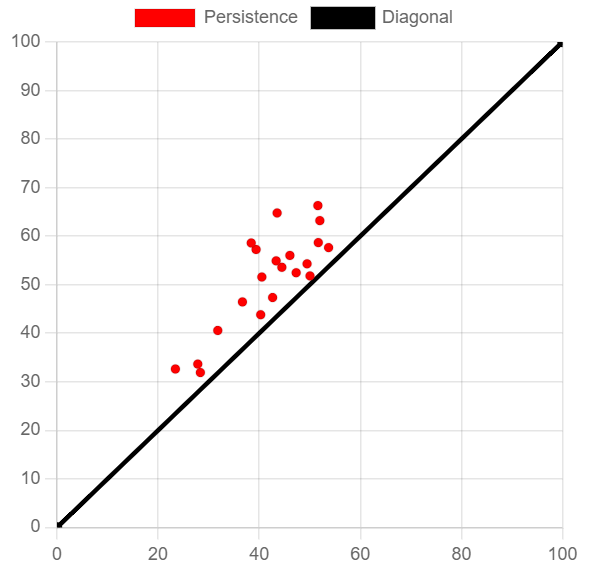
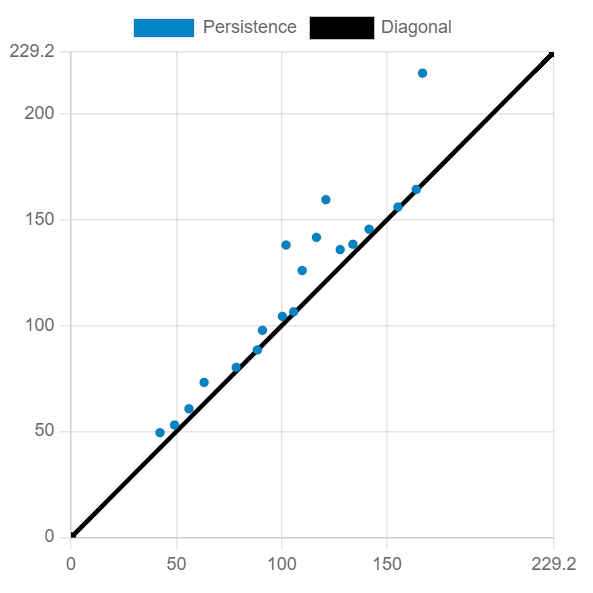
Some fixes to the explanation

diff --git a/app/explanation/persistent-homology/images.tsx b/app/explanation/persistent-homology/images.tsx
@@ -1,3 +1,8 @@
+import Image from 'next/image';
+import persistenceDiagramExample from './PersistenceDiagramExample.png';
+import persistenceDiagramExampleCycle1 from './PersistenceDiagramExampleCycle1.png';
+import persistenceDiagramExampleCycle2 from './PersistenceDiagramExampleCycle2.png';
+
 function examplePoints() {
     const radius1 = 0.3;
     const radius2 = 0.5;
@@ -80,7 +85,7 @@ export function ExampleVietorisRipsSVG({ d }: { d: number }) {
 }
 
 export function ExampleDifferentVietorisRips() {
-    const values = [0.0, 0.1, 0.2, 0.3, 0.4, 0.5, 0.6, 0.7, 0.8, 0.9, 1.0, 2.0];
+    const values = [0.0, 0.1, 0.2, 0.3, 0.4, 0.5, 0.6, 0.7, 0.8, 0.9];
     return (
         <div className="flex flex-wrap justify-around">
             {values.map(value => (
@@ -405,7 +410,7 @@ export function ExampleFilter() {
             {complexes.map(({numberOfVertices, numberOfEdges, numberOfFaces, text}, i) => (
                 <div key={i} className="flex items-center my-5 gap-5">
                     <div>
-                        <svg viewBox="0 0 300 300" width="150px" height="150px" className="border">
+                        <svg viewBox="0 0 300 300" width="150px" height="150px" className="border border-slate-900">
                             <SimplicalComplex vertices={vertices.slice(0, numberOfVertices)}
                                                 edges={edges.slice(0, numberOfEdges)}
                                                 triangles={triangles.slice(0, numberOfFaces)}/>
@@ -464,31 +469,31 @@ export function ExamplePersistentAlgorithm() {
             numberOfVertices: 0,
             numberOfEdges: 0,
             numberOfFaces: 0,
-            text: <>We start with no simplices. The lists are 0basis = [ ], 1basis = [ ].</>,
+            text: <>We start with no simplices. The lists are basis<sub>0</sub> = [ ], basis<sub>1</sub> = [ ].</>,
         },
         {
             numberOfVertices: 1,
             numberOfEdges: 0,
             numberOfFaces: 0,
-            text: <>We add v<sub>1</sub>. This is a positive simplex as vertices are cycles themselves. Thus we set 0basis = [ v<sub>1</sub> ].</>,
+            text: <>We add v<sub>1</sub>. This is a positive simplex as vertices are cycles themselves. Thus we set basis<sub>0</sub> = [ v<sub>1</sub> ].</>,
         },
         {
             numberOfVertices: 2,
             numberOfEdges: 0,
             numberOfFaces: 0,
-            text: <>We add v<sub>2</sub>. 0basis = [ v<sub>1</sub>, v<sub>2</sub> ].</>,
+            text: <>We add v<sub>2</sub>. basis<sub>0</sub> = [ v<sub>1</sub>, v<sub>2</sub> ].</>,
         },
         {
             numberOfVertices: 3,
             numberOfEdges: 0,
             numberOfFaces: 0,
-            text: <>We add v<sub>3</sub>. 0basis = [ v<sub>1</sub>, v<sub>2</sub>, v<sub>3</sub> ].</>,
+            text: <>We add v<sub>3</sub>. basis<sub>0</sub> = [ v<sub>1</sub>, v<sub>2</sub>, v<sub>3</sub> ].</>,
         },
         {
             numberOfVertices: 4,
             numberOfEdges: 0,
             numberOfFaces: 0,
-            text: <>We add v<sub>4</sub>. 0basis = [ v<sub>1</sub>, v<sub>2</sub>, v<sub>3</sub>, v<sub>4</sub> ].</>,
+            text: <>We add v<sub>4</sub>. basis<sub>0</sub> = [ v<sub>1</sub>, v<sub>2</sub>, v<sub>3</sub>, v<sub>4</sub> ].</>,
         },
         {
             numberOfVertices: 4,
@@ -500,13 +505,13 @@ export function ExamplePersistentAlgorithm() {
                     The boundary of e<sub>1</sub> = v<sub>1</sub> + v<sub>2</sub>.
                 </div>
                 <div>
-                    Since (v<sub>1</sub>) + (v<sub>2</sub>) becomes a boundary,
+                    Since v<sub>1</sub> + v<sub>2</sub> becomes a boundary,
                     and v<sub>1</sub> and v<sub>2</sub> are in the list,
                     we take their corresponding simplices v<sub>1</sub>, v<sub>2</sub> and
                     choose the one appearing last in the sequence, v<sub>2</sub>.
                 </div>
                 <div>
-                    Thus we assign v<sub>2</sub> to e<sub>1</sub>, and set 0basis = [ v<sub>1</sub>, v<sub>3</sub>, v<sub>4</sub> ].
+                    Thus we assign v<sub>2</sub> to e<sub>1</sub>, and set basis<sub>0</sub> = [ v<sub>1</sub>, v<sub>3</sub>, v<sub>4</sub> ].
                 </div>
             </>,
         },
@@ -520,13 +525,13 @@ export function ExamplePersistentAlgorithm() {
                     The boundary of e<sub>2</sub> = v<sub>2</sub> + v<sub>3</sub>.
                 </div>
                 <div>
-                    Since (v<sub>1</sub>) + (v<sub>3</sub>) becomes a boundary,
+                    Since v<sub>1</sub> + v<sub>3</sub> becomes a boundary,
                     and v<sub>1</sub> and v<sub>3</sub> are in the list,
                     we take their corresponding simplices v<sub>1</sub>, v<sub>3</sub> and
                     choose the one appearing last in the sequence, v<sub>3</sub>.
                 </div>
                 <div>
-                    Thus we assign v<sub>3</sub> to e<sub>2</sub>, and set 0basis = [ v<sub>1</sub>, v<sub>4</sub> ].
+                    Thus we assign v<sub>3</sub> to e<sub>2</sub>, and set basis<sub>0</sub> = [ v<sub>1</sub>, v<sub>4</sub> ].
                 </div>
             </>,
         },
@@ -540,13 +545,13 @@ export function ExamplePersistentAlgorithm() {
                 The boundary of e<sub>3</sub> = v<sub>3</sub> + v<sub>4</sub>.
             </div>
             <div>
-                    Since (v<sub>1</sub>) + (v<sub>4</sub>) becomes a boundary,
+                    Since v<sub>1</sub> + v<sub>4</sub> becomes a boundary,
                     and v<sub>1</sub> and v<sub>4</sub> are in the list,
                     we take their corresponding simplices v<sub>1</sub>, v<sub>4</sub> and
                     choose the one appearing last in the sequence, v<sub>4</sub>.
                 </div>
             <div>
-                Thus we assign v<sub>4</sub> to e<sub>3</sub>, and set 0basis = [ v<sub>1</sub> ].
+                Thus we assign v<sub>4</sub> to e<sub>3</sub>, and set basis<sub>0</sub> = [ v<sub>1</sub> ].
             </div>
         </>,
         },
@@ -555,7 +560,7 @@ export function ExamplePersistentAlgorithm() {
             numberOfEdges: 4,
             numberOfFaces: 0,
             text: <>
-                We add e<sub>4</sub>. This is a positive simplex. We set 1basis = [e<sub>1</sub> + e<sub>2</sub> + e<sub>3</sub> + e<sub>4</sub>].
+                We add e<sub>4</sub>. This is a positive simplex. We set basis<sub>1</sub> = [e<sub>1</sub> + e<sub>2</sub> + e<sub>3</sub> + e<sub>4</sub>].
             </>,
         },
         {
@@ -563,7 +568,7 @@ export function ExamplePersistentAlgorithm() {
             numberOfEdges: 5,
             numberOfFaces: 0,
             text: <>
-                We add e<sub>5</sub>. This is a positive simplex. We set 1basis = [e<sub>1</sub> + e<sub>2</sub> + e<sub>3</sub> + e<sub>4</sub>, e<sub>2</sub> + e<sub>3</sub> + e<sub>5</sub>].
+                We add e<sub>5</sub>. This is a positive simplex. We set basis<sub>1</sub> = [e<sub>1</sub> + e<sub>2</sub> + e<sub>3</sub> + e<sub>4</sub>, e<sub>2</sub> + e<sub>3</sub> + e<sub>5</sub>].
             </>,
         },
         {
@@ -576,14 +581,14 @@ export function ExamplePersistentAlgorithm() {
                     The boundary of f<sub>1</sub> = e<sub>1</sub> + e<sub>4</sub> + e<sub>5</sub>.
                 </div>
                 <div>
-                    Since (e<sub>1</sub> + e<sub>2</sub> + e<sub>3</sub> + e<sub>4</sub>)
+                    Since e<sub>1</sub> +  e<sub>4</sub> + e<sub>5</sub> = (e<sub>1</sub> + e<sub>2</sub> + e<sub>3</sub> + e<sub>4</sub>)
                     + (e<sub>2</sub> + e<sub>3</sub> + e<sub>5</sub>) becomes a boundary,
                     and e<sub>1</sub> + e<sub>2</sub> + e<sub>3</sub> + e<sub>4</sub> and e<sub>2</sub> + e<sub>3</sub> + e<sub>5</sub> are in the list,
-                    we take their corresponding simplices e<sub>4</sub> and v<sub>5</sub> and
+                    we take their corresponding simplices e<sub>4</sub> and e<sub>5</sub> and
                     choose the one appearing last in the sequence, e<sub>5</sub>.
                 </div>
                 <div>
-                    Thus we assign e<sub>5</sub> to f<sub>1</sub>, and set 1basis = [ e<sub>1</sub> + e<sub>2</sub> + e<sub>3</sub> + e<sub>4</sub>].
+                    Thus we assign e<sub>5</sub> to f<sub>1</sub>, and set basis<sub>1</sub> = [e<sub>1</sub> + e<sub>2</sub> + e<sub>3</sub> + e<sub>4</sub>].
                 </div>
             </>,
         },
@@ -597,23 +602,23 @@ export function ExamplePersistentAlgorithm() {
                     The boundary of f<sub>2</sub> = e<sub>2</sub> + e<sub>3</sub> + e<sub>5</sub>.
                 </div>
                 <div>
-                    Since (e<sub>1</sub> + e<sub>2</sub> + e<sub>3</sub> + e<sub>4</sub>) becomes a boundary,
+                    Since e<sub>1</sub> + e<sub>2</sub> + e<sub>3</sub> + e<sub>4</sub> becomes a boundary,
                     and e<sub>1</sub> + e<sub>2</sub> + e<sub>3</sub> + e<sub>4</sub> is in the list,
                     we take the corresponding simplex e<sub>4</sub>.
                 </div>
                 <div>
-                    Thus we assign e<sub>4</sub> to f<sub>2</sub>, and set 1basis = [ ].
+                    Thus we assign e<sub>4</sub> to f<sub>2</sub>, and set basis<sub>1</sub> = [ ].
                 </div>
             </>,
         },
     ];
 
     return (
-        <div className="gap-5">
+        <div className="space-y-12 mb-12">
             {complexes.map(({numberOfVertices, numberOfEdges, numberOfFaces, text}, i) => (
-                <div key={i} className="flex items-center my-5 gap-5">
+                <div key={i} className="flex flex-col gap-5 items-center my-5 sm:flex-row sm:gap-3">
                     <div>
-                        <svg viewBox="0 0 300 300" width="300px" height="300px" className="border">
+                        <svg viewBox="0 0 300 300" width="300px" height="300px" className="border border-slate-900">
                             <SimplicalComplex vertices={vertices.slice(0, numberOfVertices)}
                                                 edges={edges.slice(0, numberOfEdges)}
                                                 triangles={triangles.slice(0, numberOfFaces)}/>
@@ -622,9 +627,27 @@ export function ExamplePersistentAlgorithm() {
                             {faceLabels.slice(0, numberOfFaces)}
                         </svg>
                     </div>
-                    <span>{text}</span>
+                    <div className="space-y-3">{text}</div>
                 </div>
             ))}
+        </div>
+    );
+}
+
+export function ExamplePersistenceDiagram() {
+    return (
+        <div className="flex flex-col items-center gap-10">
+            <Image src={persistenceDiagramExample} alt="Persistence diagram" width="300" height="300"/>
+            <div className="flex flex-wrap items-center justify-center">
+                <div className="flex flex-col items-center w-fit">
+                    <Image src={persistenceDiagramExampleCycle1} alt="Persistence diagram cycle 1" width="300" height="300"/>
+                    <span>Top left point</span>
+                </div>
+                <div className="flex flex-col items-center w-fit">
+                    <Image src={persistenceDiagramExampleCycle2} alt="Persistence diagram cycle 2"  width="300" height="300"/>
+                    <span>Bottom right point</span>
+                </div>
+            </div>
         </div>
     );
 }

diff --git a/app/visualization/persistence-diagram/page.tsx b/app/visualization/persistence-diagram/page.tsx
@@ -656,7 +656,7 @@ function PersistentHomologyViewer({ vertices, setView }: PersistentHomologyViewe
                                         y: death,
                                         i,
                                     })),
-                            backgroundColor: 'red',
+                            backgroundColor: '#0284c7',
                             label: 'Persistence'
                         }, {
                             data: [{ x: 0, y: 0, i: -1}, { x: diagonalEndpoint, y: diagonalEndpoint, i: -1}],
@@ -693,7 +693,7 @@ function PersistentHomologyViewer({ vertices, setView }: PersistentHomologyViewe
                         {selectedPersistence !== null && (
                             persistence[selectedPersistence].edges.map(([i, j], index) => 
                                 <line key={index} x1={vertices[i][0]} y1={vertices[i][1]}
-                                        x2={vertices[j][0]} y2={vertices[j][1]} stroke="red" strokeWidth="2"/>)
+                                        x2={vertices[j][0]} y2={vertices[j][1]} stroke="#0284c7" strokeWidth="2"/>)
                         )}
                         {vertices.map(([x, y], i) => <circle key={i} cx={x} cy={y} r="5"/>)}
                     </svg>

diff --git a/app/layout.tsx b/app/layout.tsx
@@ -1,6 +1,7 @@
 import type { Metadata } from 'next'
 import Link from 'next/link';
 import './globals.css'
+import { FaDiscord, FaGithub } from 'react-icons/fa';
 
 export const metadata: Metadata = {
   title: 'Topological Data Analysis Visualizations',
@@ -17,8 +18,16 @@ export default function RootLayout({
   return (
     <html lang="en">
       <body className="h-screen flex flex-col items-stretch">
-        <nav className="p-2 bg-slate-900 text-white">
+        <nav className="p-2 bg-slate-900 text-white flex justify-between items-center h-10">
           <Link href="/">Home</Link>
+          <div className="flex gap-5">
+            <Link href="https://discord.gg/pAYAEMR8pv" className="flex items-center">
+              <FaDiscord className="w-9 h-9"/>
+            </Link>
+            <Link href="https://github.com/ShouvikGhosh2048/topological-data-analysis-visualizations" className="flex items-center">
+              <FaGithub className="w-8 h-8"/>
+            </Link>
+          </div>
         </nav>
         {children}
       </body>
